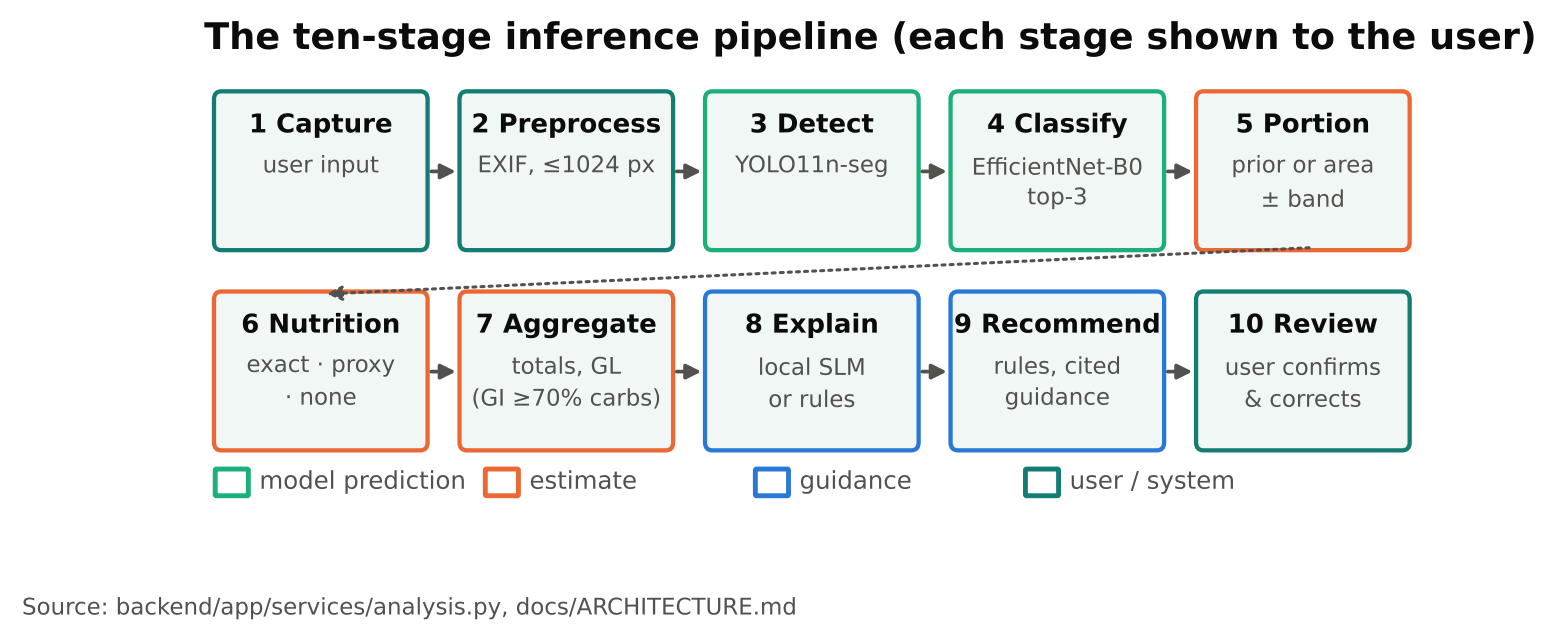
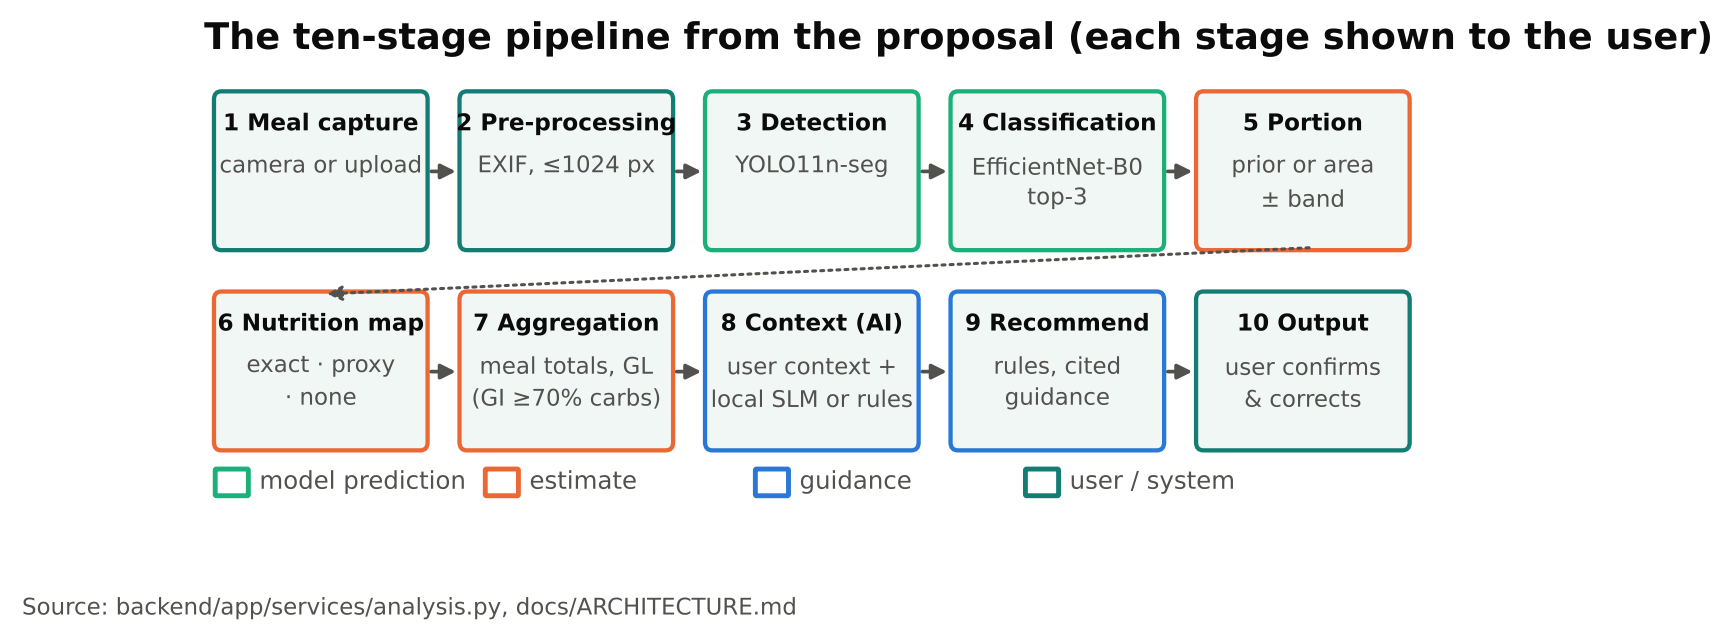
v0.13.12: align report, slides and video script with the submitted proposal
Pricing (S$3.99 Singapore, S$2.99 ASEAN), Type 1 and Type 2 diabetes as MVP
users, the proposal's competitors, market scenario and pipeline stage names.
Report adds the data section, proposed-vs-built and validation-measures tables.

Claude-Session: https://claude.ai/code/session_01KvS1eRErAfwvtfNx7f33H6

Changed region(s): [[0.1232, 0.1246, 0.9243, 0.7788], [0.1232, 0.0312, 0.9859, 0.0935], [0.0, 0.9346, 0.5237, 0.9657]]

diff --git a/docs/report/build_report.js b/docs/report/build_report.js
@@ -79,9 +79,9 @@ const cover = [
   new Paragraph({ border: { bottom: { style: BorderStyle.SINGLE, size: 8, color: TEAL, space: 6 } }, spacing: { after: 360 }, children: [] }),
   new Paragraph({ spacing: { after: 120 }, children: [run("Final Report", { bold: true, size: 36 })] }),
   new Paragraph({ spacing: { after: 600 }, children: [run("A photo-based meal recognition and glucose-awareness system for people managing diabetes in Singapore", { size: 24, color: INK2 })] }),
-  new Paragraph({ spacing: { after: 80 }, children: [run("PRS Practice Module 2026 (Jul–Dec) · Group 31", { size: 22 })] }),
-  new Paragraph({ spacing: { after: 80 }, children: [run("Joel Dizon  [add the other team members]", { size: 22 })] }),
-  new Paragraph({ spacing: { after: 80 }, children: [run("Final draft · 29 October 2026 · system version v0.13.10", { size: 22, color: INK2 })] }),
+  new Paragraph({ spacing: { after: 80 }, children: [run("NUS-ISS Practice Project · Practice Project Group (PT & Stackable) 31", { size: 22 })] }),
+  new Paragraph({ spacing: { after: 80 }, children: [run("Dizon Joselito Villanueva", { size: 22 })] }),
+  new Paragraph({ spacing: { after: 80 }, children: [run("Final draft · 29 October 2026 · system version v0.13.12 · follows the proposal of 30 September 2026", { size: 22, color: INK2 })] }),
   new Paragraph({ spacing: { before: 2400 }, children: [run("Educational estimates, not medical advice. Wei Ming, used in examples, is fictional.", { size: 18, color: INK2, italics: true })] }),
   new Paragraph({ children: [new PageBreak()] }),
 ];
@@ -116,31 +116,46 @@ const business = [
     ["People living with diabetes worldwide", "about 830 million", "WHO, 2022 (cited in the project proposal)"],
     ["Adults in Singapore with diabetes", "about 1 in 12 (8.5%)", "MOH Singapore, 2023 (cited in the proposal)"],
     ["Singapore residents by 2050 without effective prevention", "up to 1 million", "MOH projection (cited in the proposal)"],
+    ["Adults with diabetes, Singapore", "about 699,100 (2024)", "IDF Diabetes Atlas (cited in the proposal)"],
+    ["Adults with diabetes, Southeast Asia", "34.9 million (2000) → 106.9 million (2024) → 184.5 million projected (2050)", "IDF Diabetes Atlas (cited in the proposal)"],
     ["Yearly cost of diabetes to Singapore", "about S$1 billion (2010), rising to S$2.5 billion (2050); most of it lost productivity", "Png et al., BMC Public Health 2016"],
     ["Effect of making nutrition visible", "about 18% less household sugar from pre-packed drinks after Nutri-Grade", "Before-and-after study (cited in the proposal)"],
   ], [3300, 3126, 2600]),
   P("The Nutri-Grade result is the business imperative in one line: when nutrition is easy to see, choices change. Labels, however, stop at the bottle and the box. The plate, where most carbohydrate is eaten, remains unlabelled."),
   H2("1.3 Existing solutions"),
-  ...TABLE("Comparable products (published prices, 2026; confirm before citing externally)", ["Product", "What it offers", "Price"], [
-    ["Healthy 365 (HPB)", "Free government app; meal logging by search or photo against 3,000+ local foods; Healthpoints rewards", "Free"],
-    ["MyFitnessPal Premium", "General calorie and macro tracking with a large food database", "US$79.99 a year"],
-    ["Cal AI", "Photo-based calorie estimation", "about US$29.99 a year"],
-  ], [2300, 4926, 1800]),
-  P("These help people count calories or find a food. What remains hard is the moment of choice at the stall: knowing what this specific plate may do to glucose, and how sure that estimate is. MealSenseAI is designed around that moment."),
+  ...TABLE("Competitive landscape (indicative monthly prices as in the proposal, USD unless stated; MyFitnessPal and Healthy 365 added)", ["Product", "Model and positioning", "Price"], [
+    ["Foodvisor", "Freemium + premium; AI nutrition and coaching", "from US$15/month"],
+    ["Cal AI", "Freemium + premium; AI calorie tracking", "about US$9.99/month (about US$29.99 a year on annual billing)"],
+    ["SnapCalorie", "Freemium + premium; AI food recognition", "US$8.99–19.99/month"],
+    ["Healthify", "Freemium + premium/CGM; AI health and metabolic health", "US$10–60/month"],
+    ["MyFitnessPal Premium", "General calorie and macro tracking, large food database", "US$79.99 a year"],
+    ["Healthy 365 (HPB)", "Free government app; logging by search or photo, 3,000+ local foods", "Free"],
+    ["**MealSenseAI (proposed)**", "Freemium + subscription; local food recognition, portion estimate, glucose meaning; ASEAN focus", "**S$3.99/month (Singapore), S$2.99/month (ASEAN)**"],
+  ], [2300, 4426, 2300]),
+  P("As the proposal put it, the goal is not to be the cheapest but to deliver the right features at a competitive price. Existing apps help people count calories or find a food. What remains hard is the moment of choice at the stall: knowing what this specific plate may do to glucose, and how sure that estimate is. MealSenseAI is designed around that moment."),
   H2("1.4 Value proposition and users"),
   ...BUL([
     "**One photo → foods, portions and nutrition**, with Singapore dishes in the 320-class vocabulary and a local nutrition table.",
     "**Numbers → meaning**: potential glucose impact, glycaemic load, a portion simulator and a walk what-if, before the person eats.",
     "**Honest by design**: every value is labelled as model prediction, estimate, guidance or the user's own input, with its range and source; nothing is saved until the user confirms.",
-    "**Primary users**: adults with type 2 diabetes or prediabetes who eat out; **secondary**: their families and carers; **buyers in the Care tier**: clinics, employers and insurers supporting members with diabetes.",
+    "**MVP users** (as proposed): people with Type 1 and Type 2 diabetes in Singapore, focused on carbohydrate and portion awareness; **secondary**: families and carers; **later**: other conditions that need diet control, and organisations that support members with diabetes. For Type 1 diabetes the app supports awareness only and is never a basis for insulin dosing.",
+    "**Market focus**: Singapore first, scaling to Southeast Asia; aligned with UN SDG 3 (good health and well-being).",
   ]),
-  H2("1.5 Pricing (proposed)"),
-  ...TABLE("Proposed tiers, to be validated in the user trial", ["Tier", "Includes", "Price"], [
+  H2("1.5 Pricing and market scenario"),
+  P("The proposal set a freemium model with a subscription at **SGD 3.99 a month in Singapore and SGD 2.99 a month in ASEAN markets**. The built product supports that split: logging and nutrition stay free, and the subscription carries the features that make the product different."),
+  ...TABLE("Tiers (prices as proposed; feature split from the built product)", ["Tier", "Includes", "Price"], [
     ["Free", "Photo and text meal logging, nutrition per meal and day, history and trends", "S$0"],
-    ["Plus", "Glucose impact and GL, Meal Advisor, portion and activity simulators, personal glucose calibration", "S$4.90 a month or S$39 a year"],
-    ["Care (B2B2C)", "The same app for members of clinics, employers and insurers", "per member per month (to be set)"],
-  ], [1700, 5326, 2000]),
-  P("Plus is positioned between photo calorie apps (about US$30 a year) and premium trackers (about US$80 a year). These prices are a hypothesis: the trial plan (Section 7.4) includes a willingness-to-pay question. The marginal compute cost is low because all models run on one CPU server with no paid AI service; hosting cost per user has not yet been measured."),
+    ["Subscription", "Glucose impact and GL, Meal Advisor, portion and activity simulators, personal glucose calibration", "S$3.99/month (Singapore) · S$2.99/month (ASEAN)"],
+    ["Organisations (later)", "The same app for members of clinics, employers and insurers", "per member, to be set with pilots"],
+  ], [2000, 4826, 2200]),
+  ...TABLE("Illustrative market scenario from the proposal (not a forecast)", ["", "Singapore", "Southeast Asia"], [
+    ["Addressable adults with diabetes", "~699,100", "~106.9 million (2024)"],
+    ["Paying users (scenario)", "1% penetration ≈ 6,991", "scale scenario ≈ 3.9 million"],
+    ["Price", "S$3.99/month", "S$2.99/month"],
+    ["Year-1 gross revenue", "≈ S$334.7K at a constant user base; ≈ S$353.6K with 1% monthly growth", "≈ S$147.9 million with 1% monthly growth"],
+    ["Operating cost assumption", "50% of revenue (planning range 40–60%)", "50% of revenue"],
+  ], [2700, 3163, 3163]),
+  P("These are scenario calculations carried over from the proposal, not financial forecasts. The cost assumption is not yet validated; what the build adds is evidence that the marginal compute cost is low, because every model runs on one CPU server with no paid AI service. Willingness to pay is part of the trial plan (Section 7.4)."),
 ];
 
 const tools = [
@@ -170,9 +185,11 @@ const design = [
   P("The system is four containers on one server (Figure 1). The browser only talks to nginx, which serves the app and proxies /api to the FastAPI backend. The backend holds the models, rules and advisor in one process and stores everything in PostgreSQL; meal photos and model packages live in a volume. An optional local language model runs beside it. No paid cloud AI is involved."),
   ...FIG("09_architecture.png", 6.2, "Deployment architecture."),
   H2("3.2 The ten-stage pipeline"),
-  P("Every photo passes through ten stages, each shown to the user with what it did (Figure 2). Outputs are tagged by kind: model prediction, estimate, guidance or user input."),
+  P("The pipeline follows the proposal's ten stages: meal capture, image pre-processing, food instance detection, food classification, portion estimation, nutrition mapping, meal aggregation, AI contextualisation (with the user's context), recommendations and application output (Figure 2). Each stage is shown to the user with what it did, and outputs are tagged by kind: model prediction, estimate, guidance or user input."),
   ...FIG("10_pipeline.png", 6.2, "Inference pipeline; colour shows the kind of output."),
-  H2("3.3 Recognition model"),
+  H2("3.3 Data"),
+  P("As proposed, the localised source is **FoodSG-233** (209,861 images, 233 Singapore food classes, 13 food groups) and the general source is **Food-101** (101,000 images, 101 classes). Class names were harmonised into one taxonomy of **320 classes**, images validated and de-duplicated, and the data split **70% / 15% / 15%** (train / validation / test), stratified with a fixed seed so no duplicate crosses splits. Augmentation is applied to the training set only (ml/training/config.yaml). Every class maps to a nutrition record or is marked for the user to choose (Section 3.6)."),
+  H2("3.4 Recognition model"),
   ...TABLE("EXP-002 training configuration (ml/models/exp002/evidence/train_finetune.py)", ["Setting", "Value"], [
     ["Backbone", "EfficientNet-B0, initialised from EXP-001 (ImageNet weights, unified Food-101 + FoodSG taxonomy)"],
     ["Classes", "320 (Food-101 and FoodSG, harmonised)"],
@@ -183,16 +200,16 @@ const design = [
     ["Deployment", "ONNX (opset 17) on ONNX Runtime CPU; preprocessing bit-identical to training (max abs diff 0.0)"],
   ], [2200, 6826]),
   P("Optimisation choices were made for a CPU server: a compact backbone, partial fine-tuning (fewer parameters to adapt, less over-fitting on a modest dataset), discriminative learning rates (smaller for pretrained layers) and export to ONNX. Scores are raw softmax values, not calibrated probabilities, so the UI never presents them as \"% sure\"; items below 0.20 are not auto-added and items between 0.20 and 0.50 are marked for checking."),
-  H2("3.4 Several foods on a plate"),
+  H2("3.5 Several foods on a plate"),
   P("YOLO11n-seg proposes food and container regions; each region is cropped from the original photo and classified. Weak regions become \"Unidentified food\" with the model's own top three, and small or nested ones are kept as hidden suggestions. Users can also drag a box over a missed food (v0.13.2), which is classified on its own."),
-  H2("3.5 Portions, nutrition and glycaemic load"),
+  H2("3.6 Portions, nutrition and glycaemic load"),
   ...BUL([
     "**Portion**: grams entered by the user (±15%), mask area against a detected plate or bowl (±35%), or a typical serving (±50%); a serving note such as \"half\" scales it.",
     "**Nutrition mapping**: each class maps to a record as exact (247), proxy, the nearest food (66), or none (7, the user chooses). Nutrients scale linearly with grams.",
     "**Glycaemic load**: GL = Σ GI × available carbohydrate / 100, reported only when GI covers at least 70% of the meal's available carbohydrate.",
     "**GI borrowing (v0.13.8)**: 229 of 286 foods have no published GI. Fixed, ordered rules match a dish's name to its staple (noodles before rice, so rice noodles are noodles) and borrow that GI, labelled \"≈ … borrowed from …\". Where there is a choice the higher-GI staple is used, so the estimate errs high. No language model is involved.",
   ]),
-  H2("3.6 Glucose model"),
+  H2("3.7 Glucose model"),
   P("The estimate is a one-compartment mass balance of meal-derived glucose G (g):"),
   EQ("dG/dt = Rₐ(t) − k·G − Uₑₓ(t)"),
   ...BUL([
@@ -201,9 +218,9 @@ const design = [
     "**Uₑₓ**: extra uptake by working muscle, from activity energy E = MET × kg × h (Ainsworth 2011) and the carbohydrate share of fuel.",
     "**Scale**: the relative curve is anchored so a 75 g glucose drink gives a typical OGTT peak rise (+3, +5, +8 mmol/L for normal, prediabetes, diabetes). After three meals with before-and-after readings, the median ratio of measured to predicted rise calibrates it to the person.",
   ]),
-  H2("3.7 Grounded Meal Advisor"),
+  H2("3.8 Grounded Meal Advisor"),
   P("A rule engine writes each answer from the user's meals, profile and the food table, tagging every point with its evidence level (you, the model, the food table, guidance, calculated). If the local language model is available it only rewords the draft; a validator then checks that every number is within ±2% of a number in the facts, that no new food names appear, and that no unsafe statement (dosing, diagnosis, guarantees) is present. If any check fails, the rule answer is shown. Medication and urgent questions bypass the model entirely."),
-  H2("3.8 Learning safely from users"),
+  H2("3.9 Learning safely from users"),
   ...BUL([
     "**Personal memory**: a named photo region is stored as a fingerprint (square root of the 320 class probabilities). A later region is matched by cosine similarity ≥ 0.70 with a 0.05 margin over any other label. On held-out Food-101 photos, 0.70 gave 94 of 120 matches, all correct.",
     "**Consent and screening**: samples are shared for training only while the user's consent is on; withdrawal removes them from future datasets. Eleven checks (duplicates, implausible or carbohydrate-lowering relabels, repeated patterns across accounts, contributor caps, outliers) flag samples for human review.",
@@ -214,8 +231,21 @@ const design = [
 const dev = [
   H1("4. System development and implementation"),
   H2("4.1 Process"),
-  P("The system was built iteratively in versioned increments (v0.1 to v0.13.10, 45 commits from 23 to 29 October 2026). Each change was tested, versioned, recorded in the changelog and test report, and deployed to the home server (\"Buddy\") by the developer. The code base has about 6,800 lines of Python in the backend, 3,700 lines of TypeScript in the frontend and 2,000 lines of ML tooling, with 10 test modules."),
-  H2("4.2 Main features"),
+  P("The system was built iteratively in versioned increments (v0.1 to v0.13.12, about 50 commits from 23 to 29 October 2026, following the proposal of 30 September). Each change was tested, versioned, recorded in the changelog and test report, and deployed to the home server (\"Buddy\") by the developer. The code base has about 6,800 lines of Python in the backend, 3,700 lines of TypeScript in the frontend and 2,000 lines of ML tooling, with 10 test modules."),
+  H2("4.2 From proposal to build"),
+  ...TABLE("Proposed design (30 September 2026) and what was built", ["Proposed", "Built", "Why"], [
+    ["Web UI with a webcam; smartphone later", "Phone-first responsive web app (camera or upload) plus desktop", "Capture happens at the table, so the phone came first"],
+    ["Reverse proxy, web app, application API", "nginx, React app, FastAPI", "As proposed"],
+    ["Redis job queue and a separate ML worker", "One backend process; Redis optional as a cache", "A full analysis takes ~0.26 s on CPU, so a queue added complexity without benefit"],
+    ["Vision inference service (YOLO-Seg, CNN)", "YOLO11n-seg + EfficientNet-B0 on ONNX Runtime, inside the backend", "Loaded once; ~12 ms per classification"],
+    ["Local object storage (MinIO)", "A Docker volume for photos and model packages", "One server; no S3 API needed yet"],
+    ["Model registry (MLflow)", "Model updates location, model gate with shadow mode, admin promotion and rollback", "Gate decisions are part of the app and audited"],
+    ["ML development environment (Jupyter / PyTorch)", "ml/training pipeline and evaluation scripts", "Reproducible from a config file"],
+    ["Nutrition reference store", "286-record table with provenance, plus users' custom foods", "As proposed"],
+    ["Local SLM (Ollama); optional frontier LLM", "Ollama with Qwen 2.5 1.5B; no external LLM", "Data stays on the server; no paid AI service"],
+    ["Portion from plate/bowl dimensions (open challenge)", "Typical-serving priors, plate/bowl area ratio, reference objects, user grams, with bands", "Volume from one 2D photo remains unsolved; the bands say so"],
+  ], [2700, 3626, 2700]),
+  H2("4.3 Main features"),
   ...TABLE("Features and the use cases they serve", ["Use case", "Implementation"], [
     ["Log a meal from a photo or a description", "Capture page; 10-stage analysis; description parser (local SLM, rule-based fallback)"],
     ["Check and correct", "Editable review: confirm, rename (top-3 or search), portion, merge, remove; every edit logged in corrections"],
@@ -226,7 +256,7 @@ const dev = [
     ["See habits", "Dashboard, history, nutrition trends"],
     ["Govern learning", "Admin area: review queue, contributors, dataset versions, model gate, settings and versioned prompts, audit log"],
   ], [3000, 6026]),
-  H2("4.3 Implementation and optimisation choices"),
+  H2("4.4 Implementation and optimisation choices"),
   ...BUL([
     "**One process, models loaded once** at start-up; ONNX Runtime on CPU (~12 ms per classification), no GPU required.",
     "**Deferred explanation**: results appear first; the language model's explanation is requested afterwards, so it never delays the review.",
@@ -250,6 +280,12 @@ const experiments = [
     ["E7", "End-to-end acceptance", "Fresh deployment: sign-up → capture → top-3 override → portion → save → history; restart; offline", "Pass/fail per check"],
     ["E8", "Glucose model scenarios", "Chicken rice + teh tarik, type 2 profile, 78 kg: desk, 15-min walk, two-thirds rice", "Peak, area, GL"],
   ], [500, 2000, 4126, 2400]),
+  ...TABLE("Validation measures named in the proposal, and the results", ["Proposal measure", "Result", "Status"], [
+    ["Segmentation: mean average precision", "AP50 (class-agnostic) 0.59 on 100 multi-food plates; precision 74.7%, recall 68.4%", "Measured (E3)"],
+    ["Classification: confusion matrix, accuracy, precision, recall, F1", "Top-1 70.6%, top-3 85.7%, macro-F1 66.7%; confusion on plates (Figure 4)", "Reported (E1), measured (E3)"],
+    ["Portion / nutrition: MAE or % error against known reference portions", "Not measured: no weighed reference portions yet; estimates carry ±15–50% bands", "Gap, planned with the trial"],
+    ["Recommendations: factuality, relevance, safety", "38/38 labelled questions passed, 0% unsupported claims, safety 6/6, injection 3/3", "Measured (E4)"],
+  ], [2900, 4126, 2000]),
   P("All experiments run on CPU (a 4-vCPU environment for E2–E5, E7 and E8; the deployment server for E6). E1 is reported, not reproduced, because the training datasets are not part of the package; ml/evaluation/evaluate.py re-measures it on any labelled folder."),
 ];
 
@@ -293,7 +329,7 @@ const findings = [
   H2("7.2 Limitations"),
   ...BUL([
     "**Visually similar dishes** (steak vs sirloin, noodle soups, rice plates) remain the main confusion; scores are uncalibrated.",
-    "**Portions** come from priors or area, not volume (±35–50%); entering grams is the accurate path.",
+    "**Portions** come from priors or area, not volume (±35–50%); entering grams is the accurate path. The proposal's portion error measure (MAE against weighed portions) has not been run.",
     "**Nutrition values are unverified** transcriptions (USDA- and HPB-style values) or recipe approximations (199 records); a verified import (HPB SG FoodID, USDA FDC) is required before clinical use.",
     "**Glucose estimates** use population physiology; they are not predictions for an individual and must never inform insulin dosing.",
     "**Accuracy evidence for E1 is reported**, not reproduced in this package; the multi-food set is synthetic; no real-user trial has been run.",
@@ -308,7 +344,7 @@ const findings = [
     "Calibrate scores (temperature scaling) so the review can show reliable confidence.",
   ], "num2"),
   H2("7.4 Trial plan"),
-  P("A two-phase evaluation is proposed: five to eight moderated sessions (task success, time, one-question ease rating) followed by a two-week field trial with 15–30 people (System Usability Scale, UMUX-Lite, trust and comprehension items, willingness to pay for Plus). The app already logs the needed behaviour: accepted vs corrected foods, top-3 hits, drawn boxes, memory matches, portion edits and language-model use. Consent under Singapore's PDPA, training consent off by default and a clear not-medical-advice statement are prerequisites."),
+  P("The trial should also weigh a set of reference portions, to measure portion error as the proposal intended. A two-phase evaluation is proposed: five to eight moderated sessions (task success, time, one-question ease rating) followed by a two-week field trial with 15–30 people (System Usability Scale, UMUX-Lite, trust and comprehension items, willingness to pay for Plus). The app already logs the needed behaviour: accepted vs corrected foods, top-3 hits, drawn boxes, memory matches, portion edits and language-model use. Consent under Singapore's PDPA, training consent off by default and a clear not-medical-advice statement are prerequisites."),
   H1("8. Conclusion", false),
   P("MealSenseAI shows that a small, local, explainable system can make an unlabelled hawker plate legible: recognition good enough when paired with one-tap correction, glycaemic load for most local staples, a glucose estimate that favours sensible portions, and an advisor that cannot make up numbers. The next step is evidence from real users and verified nutrition data."),
 ];
@@ -338,7 +374,7 @@ const refs = [
 
 const num = (ref, fmt) => ({ reference: ref, levels: [{ level: 0, format: fmt, text: fmt === LevelFormat.BULLET ? "•" : "%1.", alignment: AlignmentType.LEFT, style: { paragraph: { indent: { left: 540, hanging: 300 } } } }] });
 const doc = new Document({
-  creator: "Joel Dizon", title: "MealSenseAI Final Report", description: "Final report, PRS Practice Module 2026",
+  creator: "Dizon Joselito Villanueva", title: "MealSenseAI Final Report", description: "Final report, Practice Project Group 31",
   features: { updateFields: true },
   styles: {
     default: { document: { run: { font: "Calibri", size: 22 } } },

diff --git a/frontend/src/lib/version.ts b/frontend/src/lib/version.ts
@@ -1,7 +1,10 @@
 /** App version (kept in step with backend/app/version.py) and high-level release notes, newest first. */
-export const APP_VERSION = '0.13.11'
+export const APP_VERSION = '0.13.12'
 
 export const CHANGELOG: { version: string; title: string; changes: string[] }[] = [
+  { version: '0.13.12', title: 'Aligned with the proposal', changes: [
+    'Behind the scenes: the report, slides and video script now use the submitted proposal\'s pricing, target users and pipeline names; no change to the app',
+  ] },
   { version: '0.13.11', title: 'Final report sources', changes: [
     'Behind the scenes: the final report and its figures, rebuilt from the evidence files; no change to the app',
   ] },

diff --git a/docs/report/make_charts.py b/docs/report/make_charts.py
@@ -215,16 +215,16 @@ ax.text(0.1, 0.4, "Docker Compose, one CPU server\nno paid cloud AI service", fo
 ax.set_title("Deployment architecture")
 save(fig, "09_architecture.png", "docker-compose.yml, docs/ARCHITECTURE.md")
 
-stages = [("1 Capture", "user input"), ("2 Preprocess", "EXIF, ≤1024 px"), ("3 Detect", "YOLO11n-seg"), ("4 Classify", "EfficientNet-B0\ntop-3"),
-          ("5 Portion", "prior or area\n± band"), ("6 Nutrition", "exact · proxy\n· none"), ("7 Aggregate", "totals, GL\n(GI ≥70% carbs)"),
-          ("8 Explain", "local SLM\nor rules"), ("9 Recommend", "rules, cited\nguidance"), ("10 Review", "user confirms\n& corrects")]
+stages = [("1 Meal capture", "camera or upload"), ("2 Pre-processing", "EXIF, ≤1024 px"), ("3 Detection", "YOLO11n-seg"), ("4 Classification", "EfficientNet-B0\ntop-3"),
+          ("5 Portion", "prior or area\n± band"), ("6 Nutrition map", "exact · proxy\n· none"), ("7 Aggregation", "meal totals, GL\n(GI ≥70% carbs)"),
+          ("8 Context (AI)", "user context +\nlocal SLM or rules"), ("9 Recommend", "rules, cited\nguidance"), ("10 Output", "user confirms\n& corrects")]
 fig, ax = plt.subplots(figsize=(7.2, 2.6))
 ax.set_xlim(0, 10); ax.set_ylim(0, 3); ax.axis("off")
 for i, (t1, t2) in enumerate(stages):
     row, col = divmod(i, 5)
     x, y = 0.1 + col * 2.0, 1.65 - row * 1.5
     tag = AQUA if i in (2, 3) else ORANGE if i in (4, 5, 6) else BLUE if i in (7, 8) else TEAL
-    box(ax, x, y, 1.7, 1.15, t1, t2, edge=tag, tsize=8.5, bsize=7.5)
+    box(ax, x, y, 1.7, 1.15, t1, t2, edge=tag, tsize=7.6, bsize=7.5)
     if col < 4:
         arrow(ax, x + 1.7, y + 0.57, x + 2.0, y + 0.57)
 ax.annotate("", (0.95, 1.3), (9.05, 1.65), arrowprops=dict(arrowstyle="-|>", color=INK2, lw=1.0, connectionstyle="arc3,rad=0.0", ls=":"))
@@ -232,5 +232,5 @@ for i, (lab, col) in enumerate([("model prediction", AQUA), ("estimate", ORANGE)
     ax.add_patch(FancyBboxPatch((0.1 + i * 2.2, -0.2), 0.25, 0.18, boxstyle="round,pad=0.01", fc="white", ec=col, lw=1.6))
     ax.text(0.45 + i * 2.2, -0.11, lab, va="center", fontsize=8, color=INK2)
 ax.set_ylim(-0.3, 3)
-ax.set_title("The ten-stage inference pipeline (each stage shown to the user)")
+ax.set_title("The ten-stage pipeline from the proposal (each stage shown to the user)")
 save(fig, "10_pipeline.png", "backend/app/services/analysis.py, docs/ARCHITECTURE.md")

diff --git a/backend/app/version.py b/backend/app/version.py
@@ -1,1 +1,1 @@
-APP_VERSION = "0.13.11"   # kept in step with frontend/src/lib/version.ts
+APP_VERSION = "0.13.12"   # kept in step with frontend/src/lib/version.ts

diff --git a/demo/SOURCES.md b/demo/SOURCES.md
@@ -9,7 +9,8 @@
 | About 18% less household sugar from pre-packed drinks after Nutri-Grade | Nutri-Grade before-and-after study (as cited in the project proposal) |
 | Photo calorie apps around US$30 a year | Cal AI published pricing (~US$29.99/year), 2026; third-party summaries, confirm in the App Store |
 | Premium trackers around US$80 a year | MyFitnessPal Premium published pricing (US$79.99/year), 2026; confirm at myfitnesspal.com/premium |
-| Pricing tiers (Free, Plus S$4.90/month or S$39/year, Care per member) | Proposed by the project; to be validated in the trial |
+| Pricing (freemium; subscription S$3.99/month Singapore, S$2.99/month ASEAN; organisations later) | Project proposal, 30 September 2026; to be validated in the trial |
+| Competitor prices (Foodvisor, Cal AI, SnapCalorie, Healthify; indicative monthly USD) | Project proposal, 30 September 2026 |
 | 70.6% top-1, 85.7% top-3, 66.7% macro-F1 | EXP-002 developer evaluation (`ml/models/exp002/model_card.json`) |
 | Same top 3 after ONNX export on 601 images; 11.8 ms per photo | Measured (`ml/models/exp002/evidence/onnx_parity.json`) |
 | 74.7% precision, 68.4% recall, 262 ms median per plate | Measured on 100 synthetic multi-food plates (`test-results/multifood_metrics.json`) |

diff --git a/demo/RECORDING-SCRIPT.md b/demo/RECORDING-SCRIPT.md
@@ -69,7 +69,7 @@ Over time, Nutrition Insights turns meals into trends: carbohydrates, sugar, fib
 
 **16 · Pricing** — on camera (video + audio), file `16.mp4`, about 35 s
 
-Here's how we propose to offer it, to be tested in our trial. A free tier, to log meals and see their nutrition. MealSenseAI Plus, at four ninety a month or thirty-nine dollars a year, adds the glucose estimates, the Meal Advisor and the simulators. That places it between photo calorie apps, at around thirty US dollars a year, and premium trackers, at around eighty. And MealSenseAI Care, licensed per member to clinics, employers and insurers who support people with diabetes.
+Here's the model from our proposal: freemium, to be tested in our trial. A free tier, to log meals and see their nutrition. The subscription, at three ninety-nine a month in Singapore and two ninety-nine in other ASEAN markets, adds the glucose estimates, the Meal Advisor and the simulators. That's well below AI nutrition apps, which run from about nine to sixty US dollars a month. Later, clinics and employers can offer it to their members.
 
 ## System design
 

diff --git a/docs/TEST_REPORT.md b/docs/TEST_REPORT.md
@@ -174,3 +174,11 @@ Executed locally (CPU, Python venv + PostgreSQL 16, built frontend served by the
 | `voice.py mine → build → splice` with synthetic stand-ins (tones for the voice lines, colour-bar takes `01-05.mp4`, `16.mp4`, `17-25.mov`) | **PASS**: final cut in script order, 1920×1080, 30 fps, AAC 48 kHz stereo; video 48.30 s, audio 48.32 s (padded to picture, no drift) |
 | `record.mjs` with the full script's scenes (short lines) against the local app | **PASS**: all 21 screen and card scenes ran; a box dragged on the photo added item 4 and a tap on a guess named it; cards fit 1080p |
 | Not run here | The Buddy run with the real demo stack, the Kokoro preview and your own recordings |
+
+## v0.13.12: aligned with the submitted proposal (29 Oct 2026)
+
+| Test | Result |
+|---|---|
+| Report build (`node docs/report/build_report.js`) and LibreOffice render | **PASS**: 21 pages, tables and the renamed pipeline figure fit |
+| `node --check demo/record.mjs`, narration JSON parses | **PASS** |
+| App | No change; tests not re-run |

diff --git a/CHANGELOG.md b/CHANGELOG.md
@@ -2,6 +2,16 @@
 
 High-level changes per release. The running version is shown next to the logo and on the About page.
 
+## v0.13.12 — Aligned with the submitted proposal (no app change)
+
+- Report, slides and video script harmonised with the proposal of 30 September 2026: pricing is freemium with a
+  subscription at S$3.99/month (Singapore) and S$2.99/month (ASEAN), replacing S$4.90/S$39; MVP users are people with
+  Type 1 and Type 2 diabetes; competitors and the IDF market scenario are the proposal's; the pipeline chart uses the
+  proposal's ten stage names.
+- Report: a data section (FoodSG-233 + Food-101, 70/15/15), a "proposed vs built" table, and the proposal's
+  validation measures against the results, including the gap: portion error (MAE) has not been measured.
+- `demo/`: pricing line, pricing card and sources updated.
+
 ## v0.13.11 — Final report sources (no app change)
 
 - `docs/report/`: the figure script (`make_charts.py`, ten charts from the evidence files and the app's own models),
